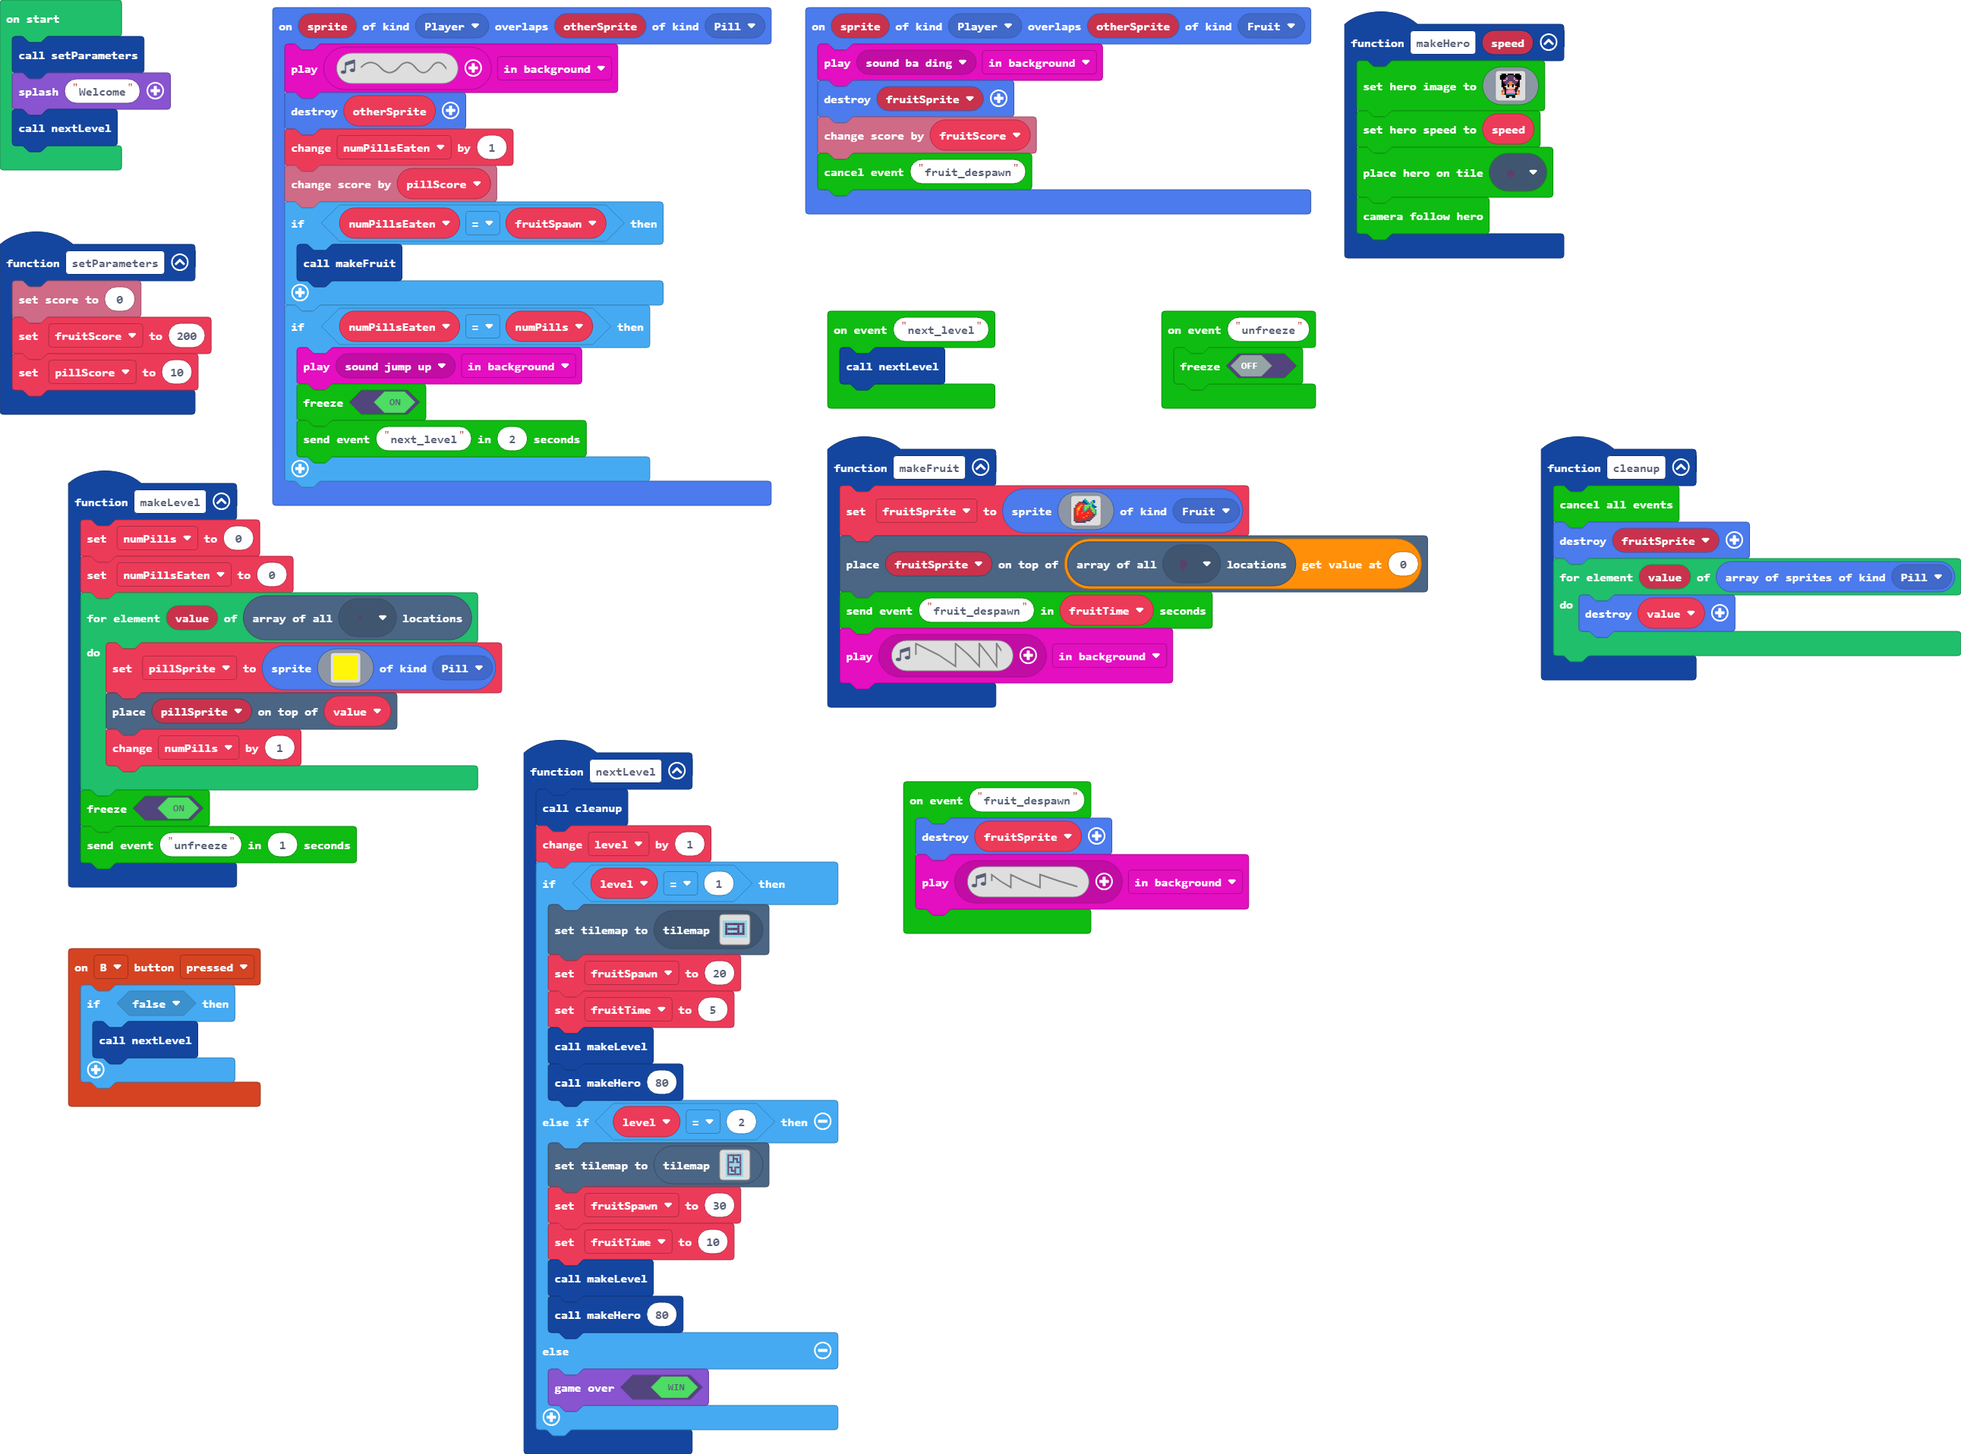
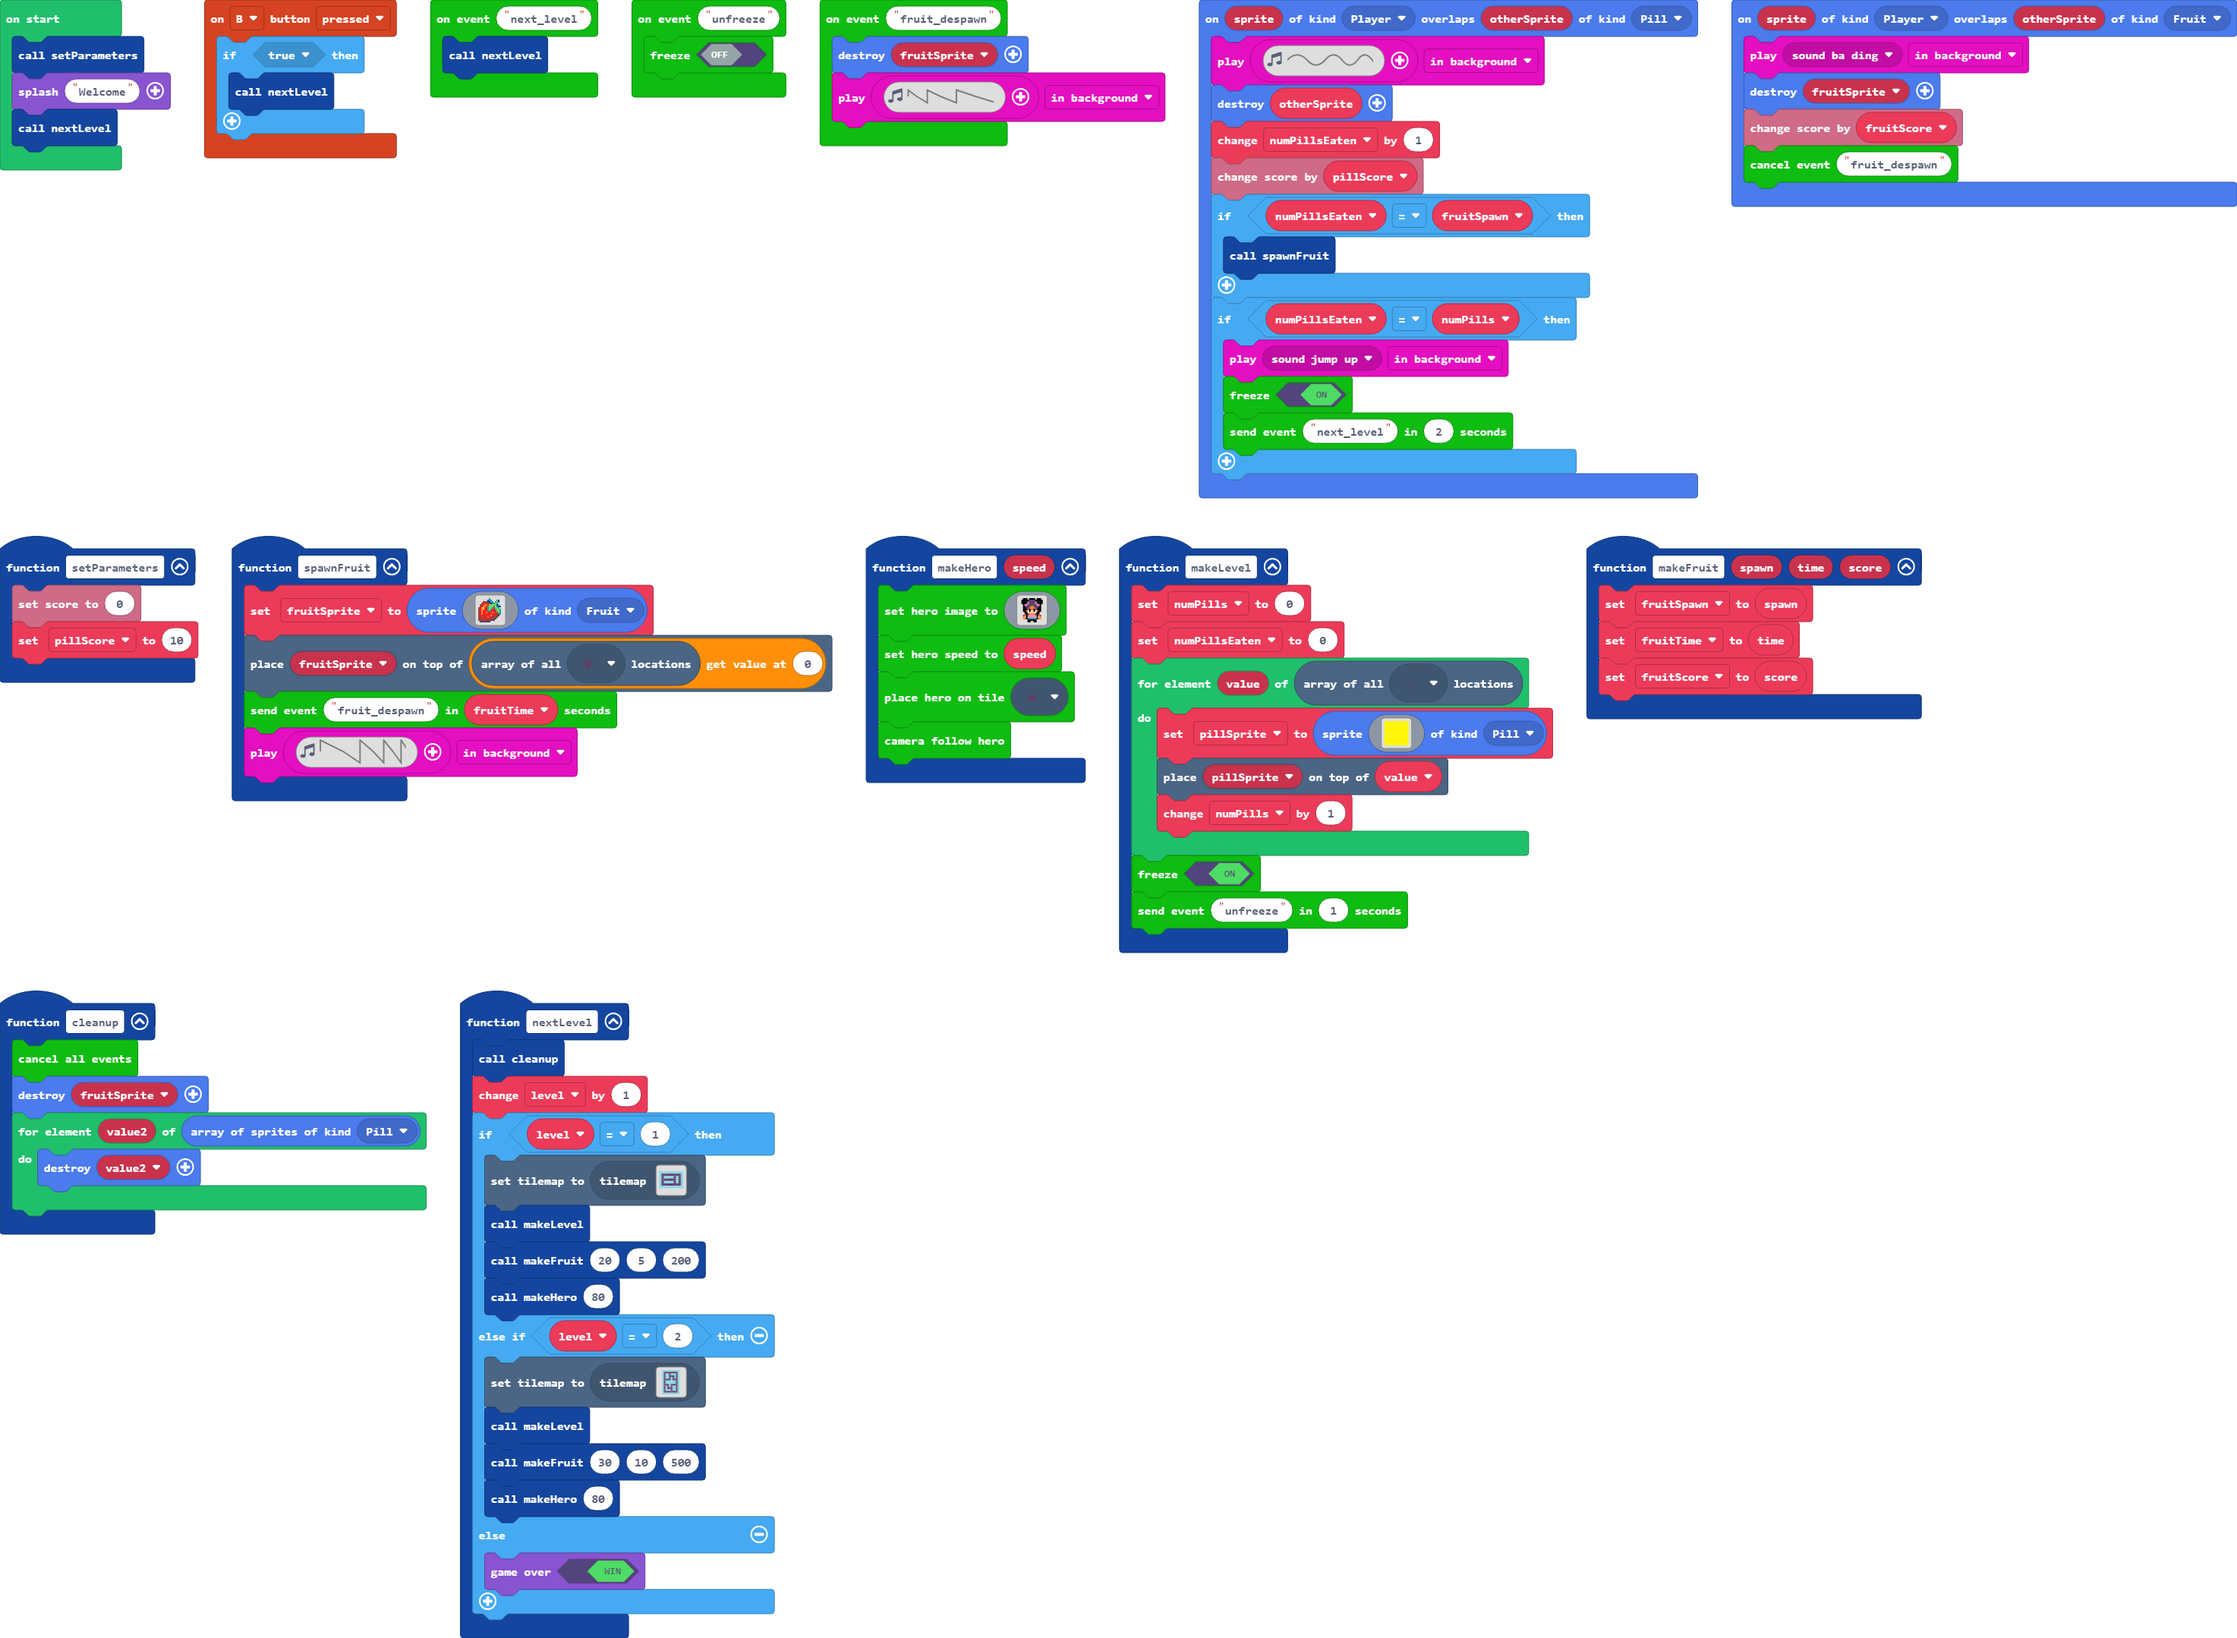
Simply fruit setup

diff --git a/main.ts b/main.ts
@@ -4,7 +4,6 @@ namespace SpriteKind {
 }
 function setParameters () {
     info.setScore(0)
-    fruitScore = 200
     pillScore = 10
 }
 function makeHero (speed: number) {
@@ -31,7 +30,7 @@ function makeHero (speed: number) {
     maze.cameraFollowHero()
 }
 controller.B.onEvent(ControllerButtonEvent.Pressed, function () {
-    if (false) {
+    if (true) {
         nextLevel()
     }
 })
@@ -46,20 +45,7 @@ function makeLevel () {
     maze.freeze(true)
     maze.sendEvent("unfreeze", 1)
 }
-sprites.onOverlap(SpriteKind.Player, SpriteKind.Fruit, function (sprite, otherSprite) {
-    music.play(music.melodyPlayable(music.baDing), music.PlaybackMode.InBackground)
-    sprites.destroy(fruitSprite)
-    info.changeScoreBy(fruitScore)
-    maze.cancelEvent("fruit_despawn")
-})
-function cleanup () {
-    maze.cancelAllEvents()
-    sprites.destroy(fruitSprite)
-    for (let value of sprites.allOfKind(SpriteKind.Pill)) {
-        sprites.destroy(value)
-    }
-}
-function makeFruit () {
+function spawnFruit () {
     fruitSprite = sprites.create(img`
         . . . . . . . 6 . . . . . . . . 
         . . . . . . 8 6 6 . . . 6 8 . . 
@@ -82,20 +68,36 @@ function makeFruit () {
     maze.sendEvent("fruit_despawn", fruitTime)
     music.play(music.createSoundEffect(WaveShape.Sawtooth, 1, 4045, 255, 255, 250, SoundExpressionEffect.Warble, InterpolationCurve.Curve), music.PlaybackMode.InBackground)
 }
+sprites.onOverlap(SpriteKind.Player, SpriteKind.Fruit, function (sprite, otherSprite) {
+    music.play(music.melodyPlayable(music.baDing), music.PlaybackMode.InBackground)
+    sprites.destroy(fruitSprite)
+    info.changeScoreBy(fruitScore)
+    maze.cancelEvent("fruit_despawn")
+})
+function cleanup () {
+    maze.cancelAllEvents()
+    sprites.destroy(fruitSprite)
+    for (let value2 of sprites.allOfKind(SpriteKind.Pill)) {
+        sprites.destroy(value2)
+    }
+}
+function makeFruit (spawn: number, time: number, score: number) {
+    fruitSpawn = spawn
+    fruitTime = time
+    fruitScore = score
+}
 function nextLevel () {
     cleanup()
     level += 1
     if (level == 1) {
         tiles.setCurrentTilemap(tilemap`level1`)
-        fruitSpawn = 20
-        fruitTime = 5
         makeLevel()
+        makeFruit(20, 5, 200)
         makeHero(80)
     } else if (level == 2) {
         tiles.setCurrentTilemap(tilemap`level7`)
-        fruitSpawn = 30
-        fruitTime = 10
         makeLevel()
+        makeFruit(30, 10, 500)
         makeHero(80)
     } else {
         game.gameOver(true)
@@ -114,7 +116,7 @@ sprites.onOverlap(SpriteKind.Player, SpriteKind.Pill, function (sprite, otherSpr
     numPillsEaten += 1
     info.changeScoreBy(pillScore)
     if (numPillsEaten == fruitSpawn) {
-        makeFruit()
+        spawnFruit()
     }
     if (numPillsEaten == numPills) {
         music.play(music.melodyPlayable(music.jumpUp), music.PlaybackMode.InBackground)
@@ -125,15 +127,15 @@ sprites.onOverlap(SpriteKind.Player, SpriteKind.Pill, function (sprite, otherSpr
 maze.onEvent("next_level", function () {
     nextLevel()
 })
-let fruitSpawn = 0
 let level = 0
+let fruitSpawn = 0
+let fruitScore = 0
 let fruitTime = 0
 let fruitSprite: Sprite = null
 let pillSprite: Sprite = null
 let numPillsEaten = 0
 let numPills = 0
 let pillScore = 0
-let fruitScore = 0
 setParameters()
 game.splash("Welcome")
 nextLevel()
